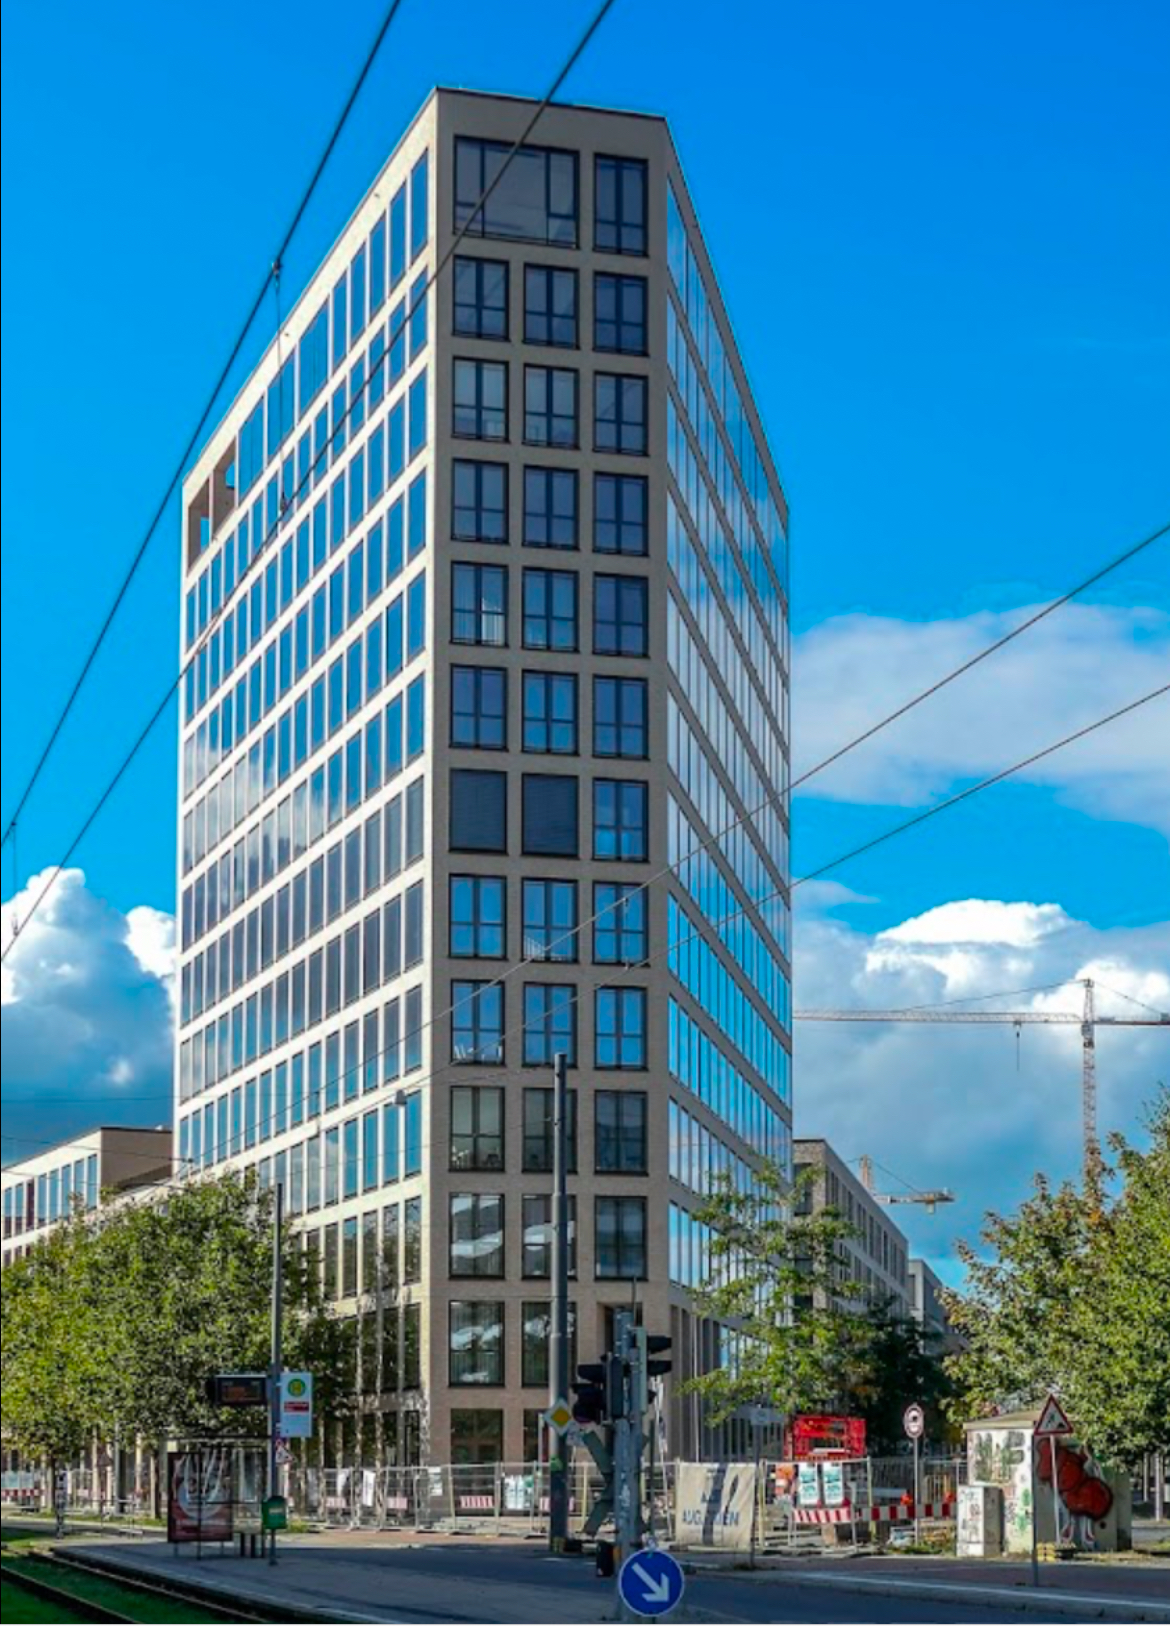
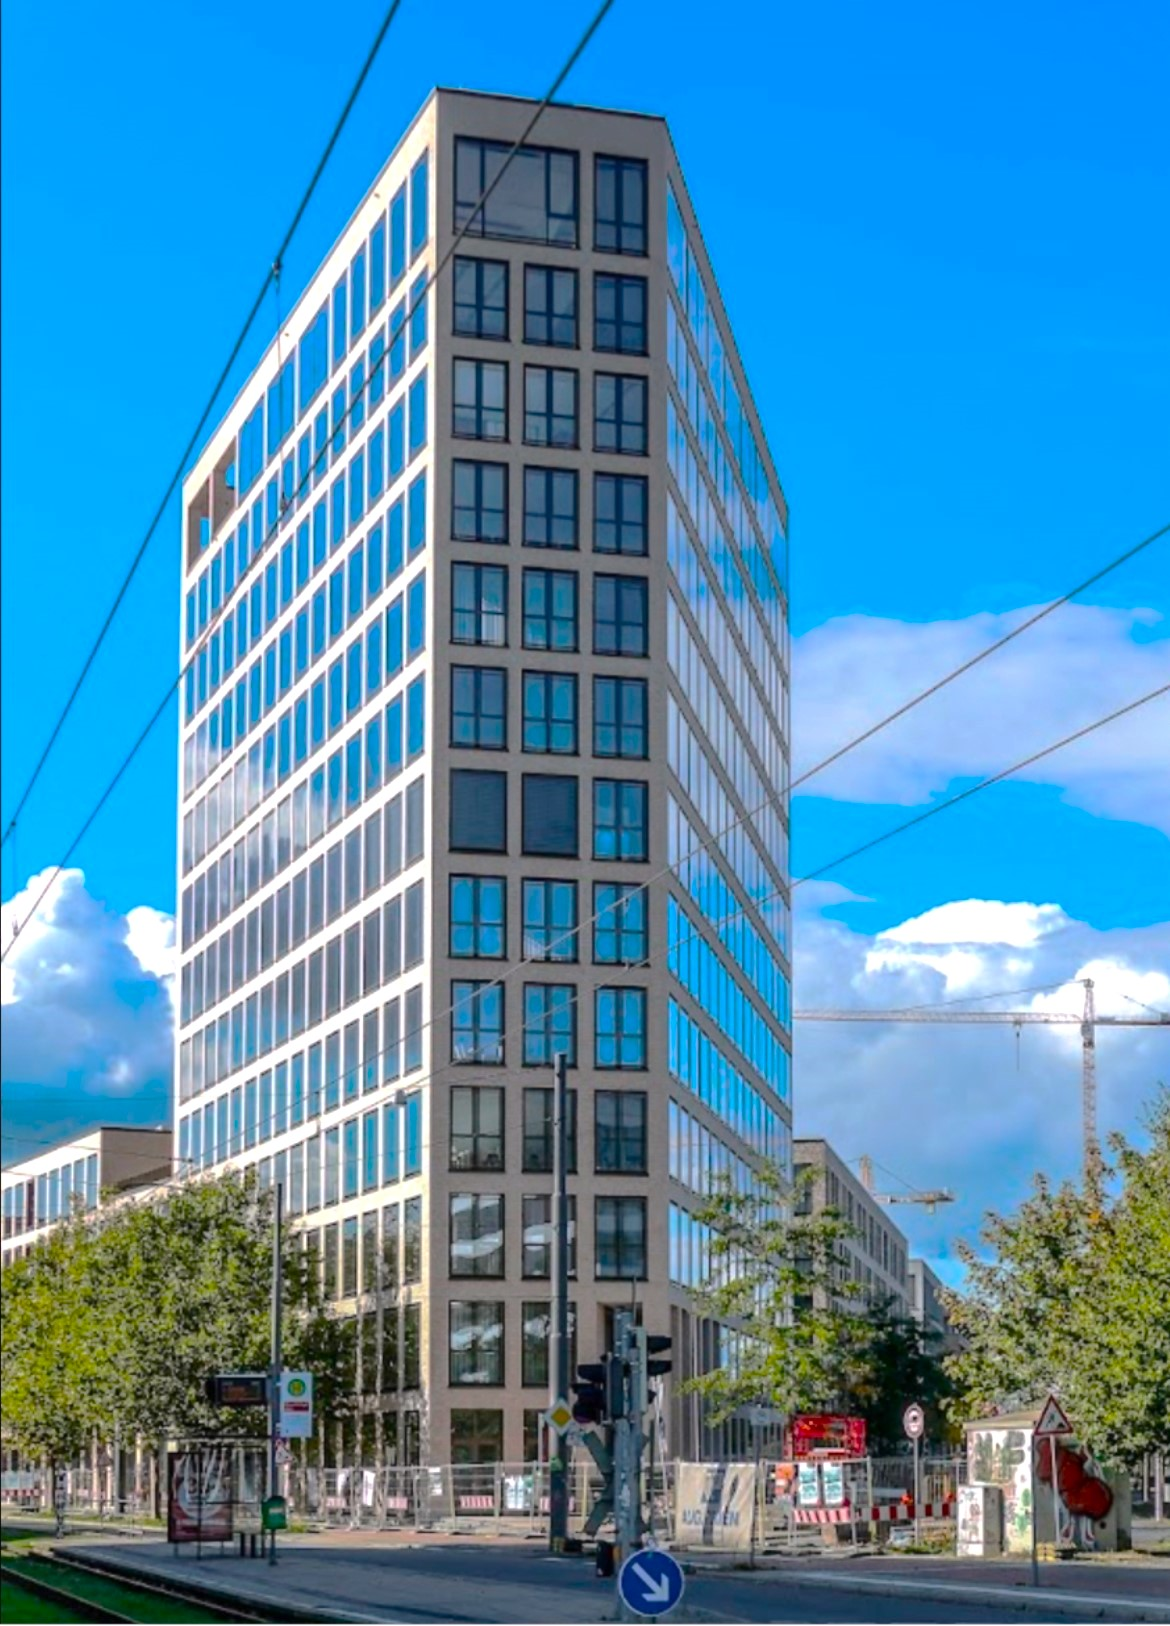
poslednja izmena

diff --git a/assets/css/main.css b/assets/css/main.css
@@ -587,7 +587,7 @@ h6 {
   background-color: var(--background-color);
   font-size: 14px;
   text-align: center;
-  padding: 30px 0;
+  padding: 20px 0;
   position: relative;
   background-image: url("/assets/img/footer.jpg");
   background-repeat: no-repeat;
@@ -596,7 +596,7 @@ h6 {
 }
 
 .footer h3 {
-  font-size: 36px;
+  font-size: 30px;
   font-weight: 700;
   position: relative;
   padding: 0;
@@ -604,9 +604,9 @@ h6 {
 }
 
 .footer p {
-  font-size: 16px;
+  font-size: 15px;
   padding: 0;
-  margin: 0 0 30px 0;
+  margin: 0 0 20px 0;
   color: white;
   font-weight: 500;
 }

diff --git a/index.html b/index.html
@@ -128,7 +128,7 @@
 
     <section id="call-to-action" class="call-to-action section dark-background">
 
-      <img src="assets/img/first.jpg" alt="">
+      <img src="assets/img/first.webp" alt="">
 
       <div class="container">
 

diff --git a/index_en.html b/index_en.html
@@ -128,7 +128,7 @@
 
     <section id="call-to-action" class="call-to-action section dark-background">
 
-      <img src="assets/img/first.jpg" alt="">
+      <img src="assets/img/first.webp" alt="">
 
       <div class="container">
 

diff --git a/index_hr.html b/index_hr.html
@@ -129,7 +129,7 @@
 
     <section id="call-to-action" class="call-to-action section dark-background">
 
-      <img src="assets/img/first.jpg" alt="">
+      <img src="assets/img/first.webp" alt="">
 
       <div class="container">
 
